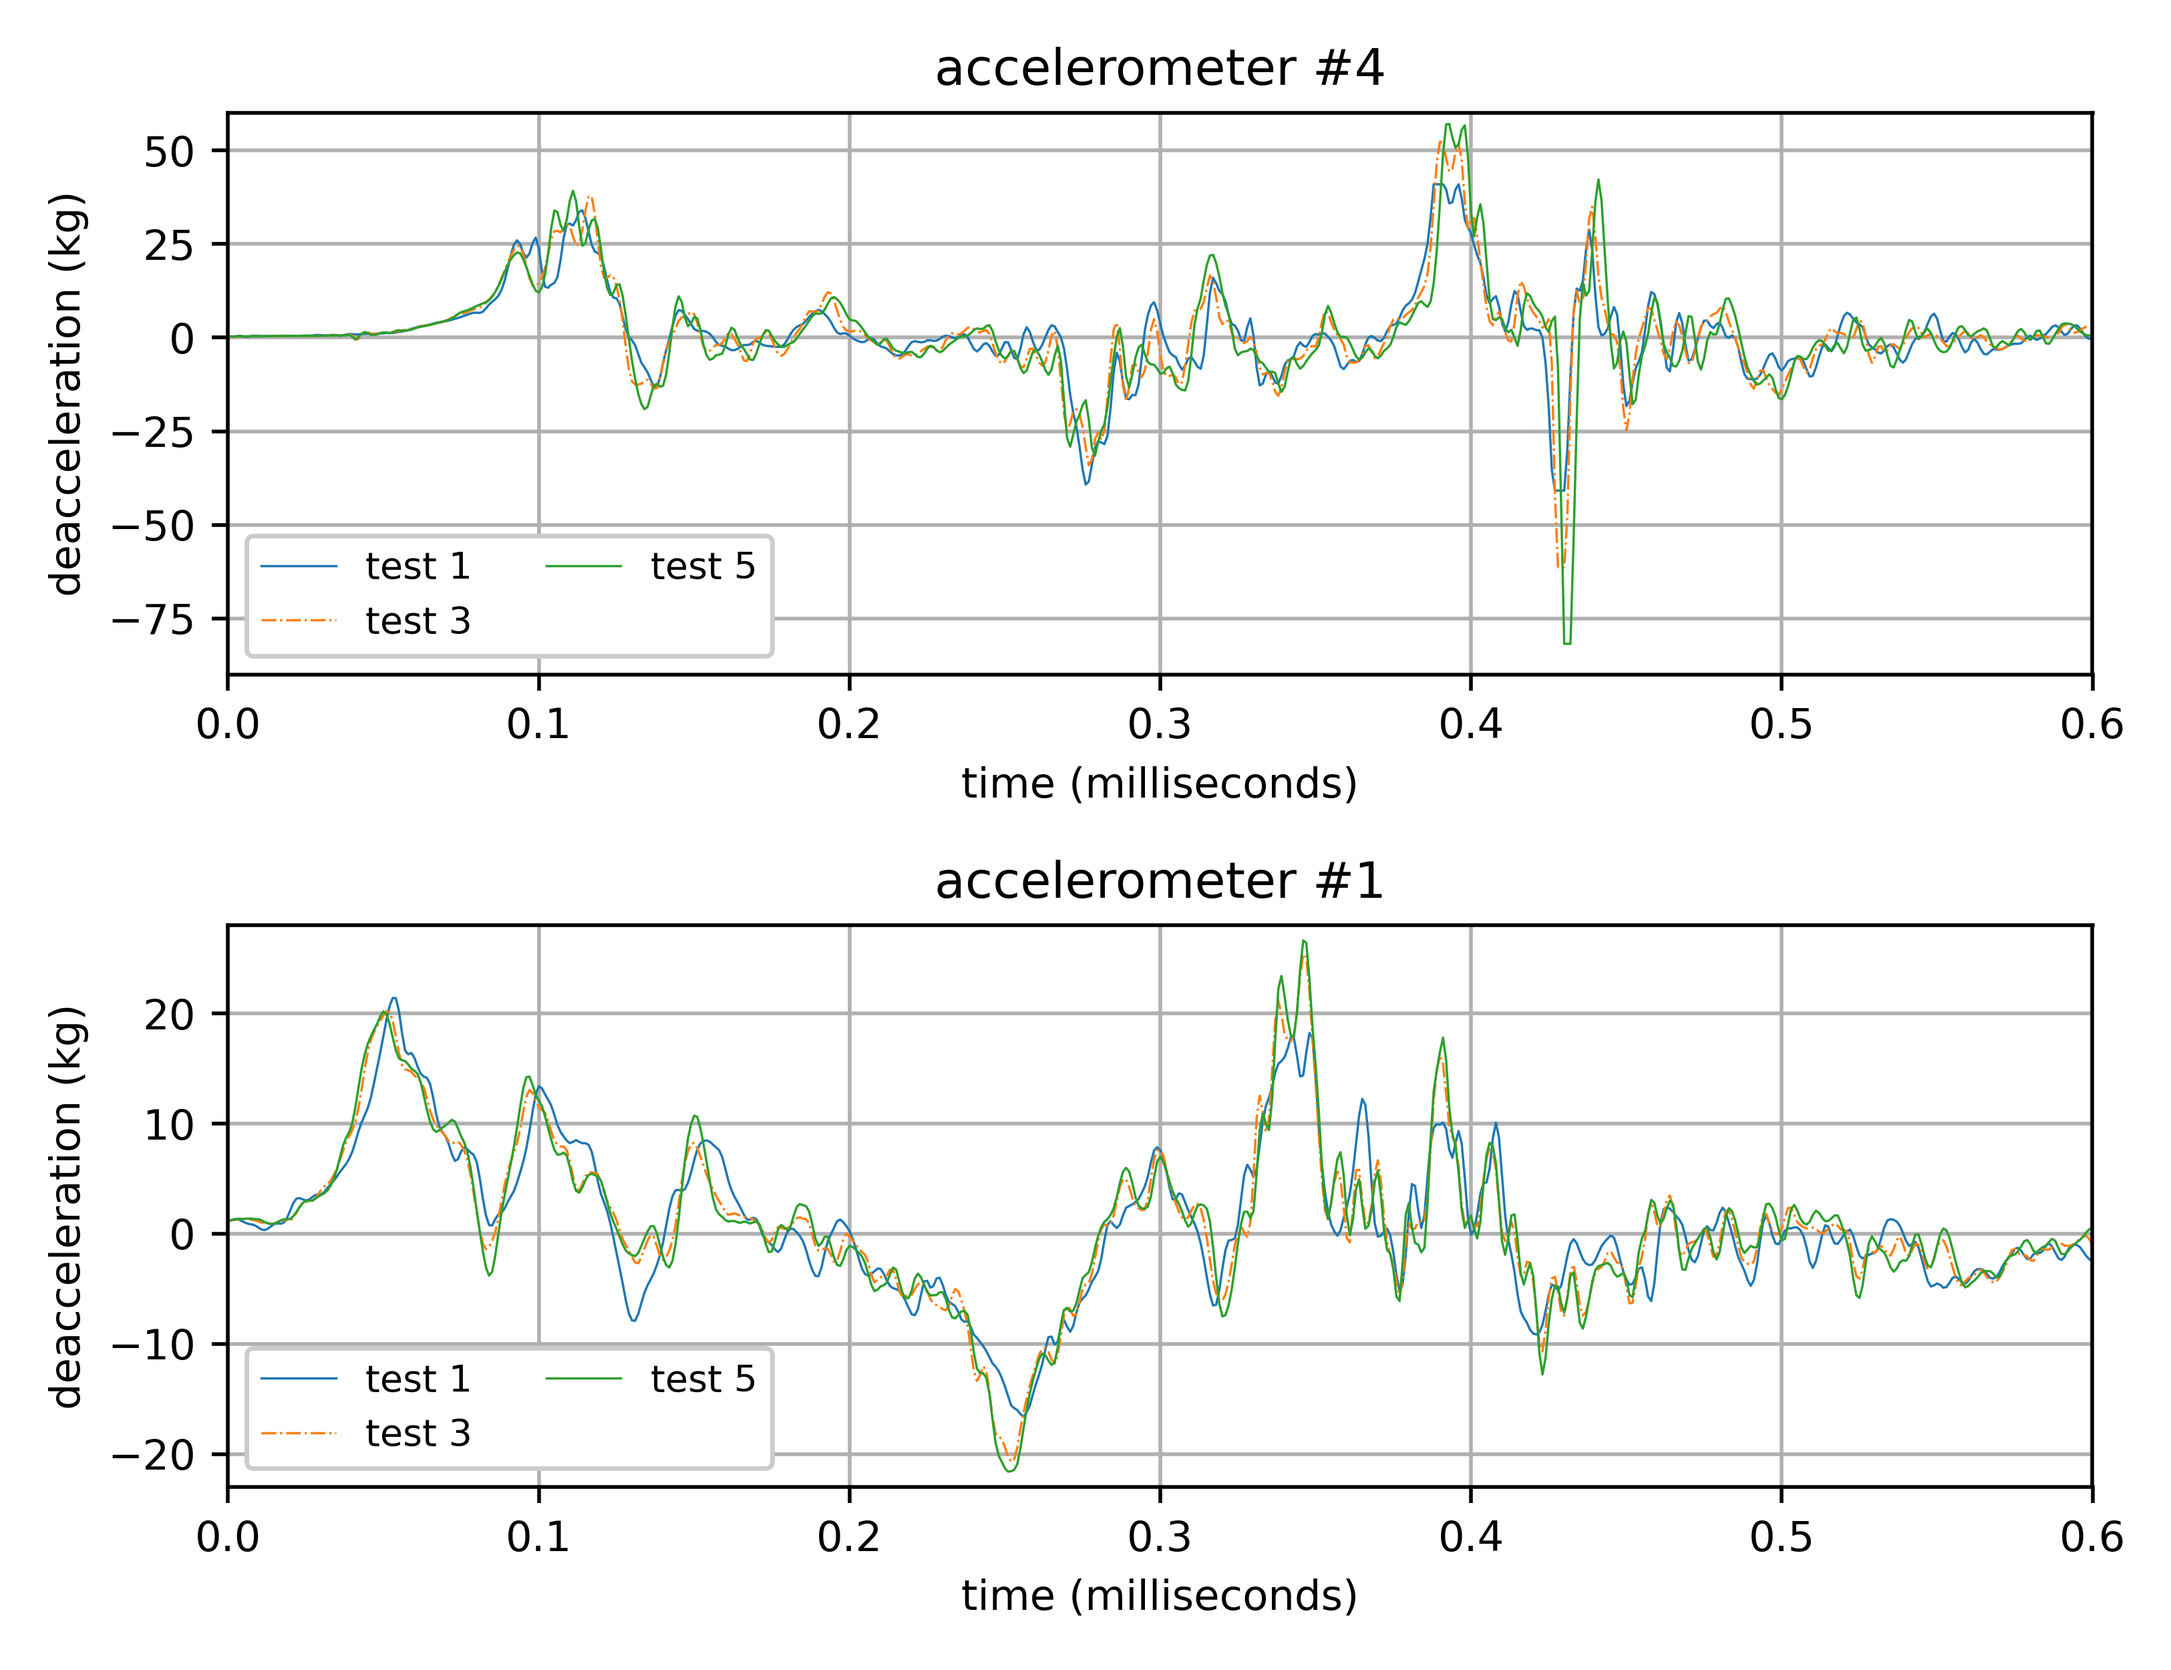
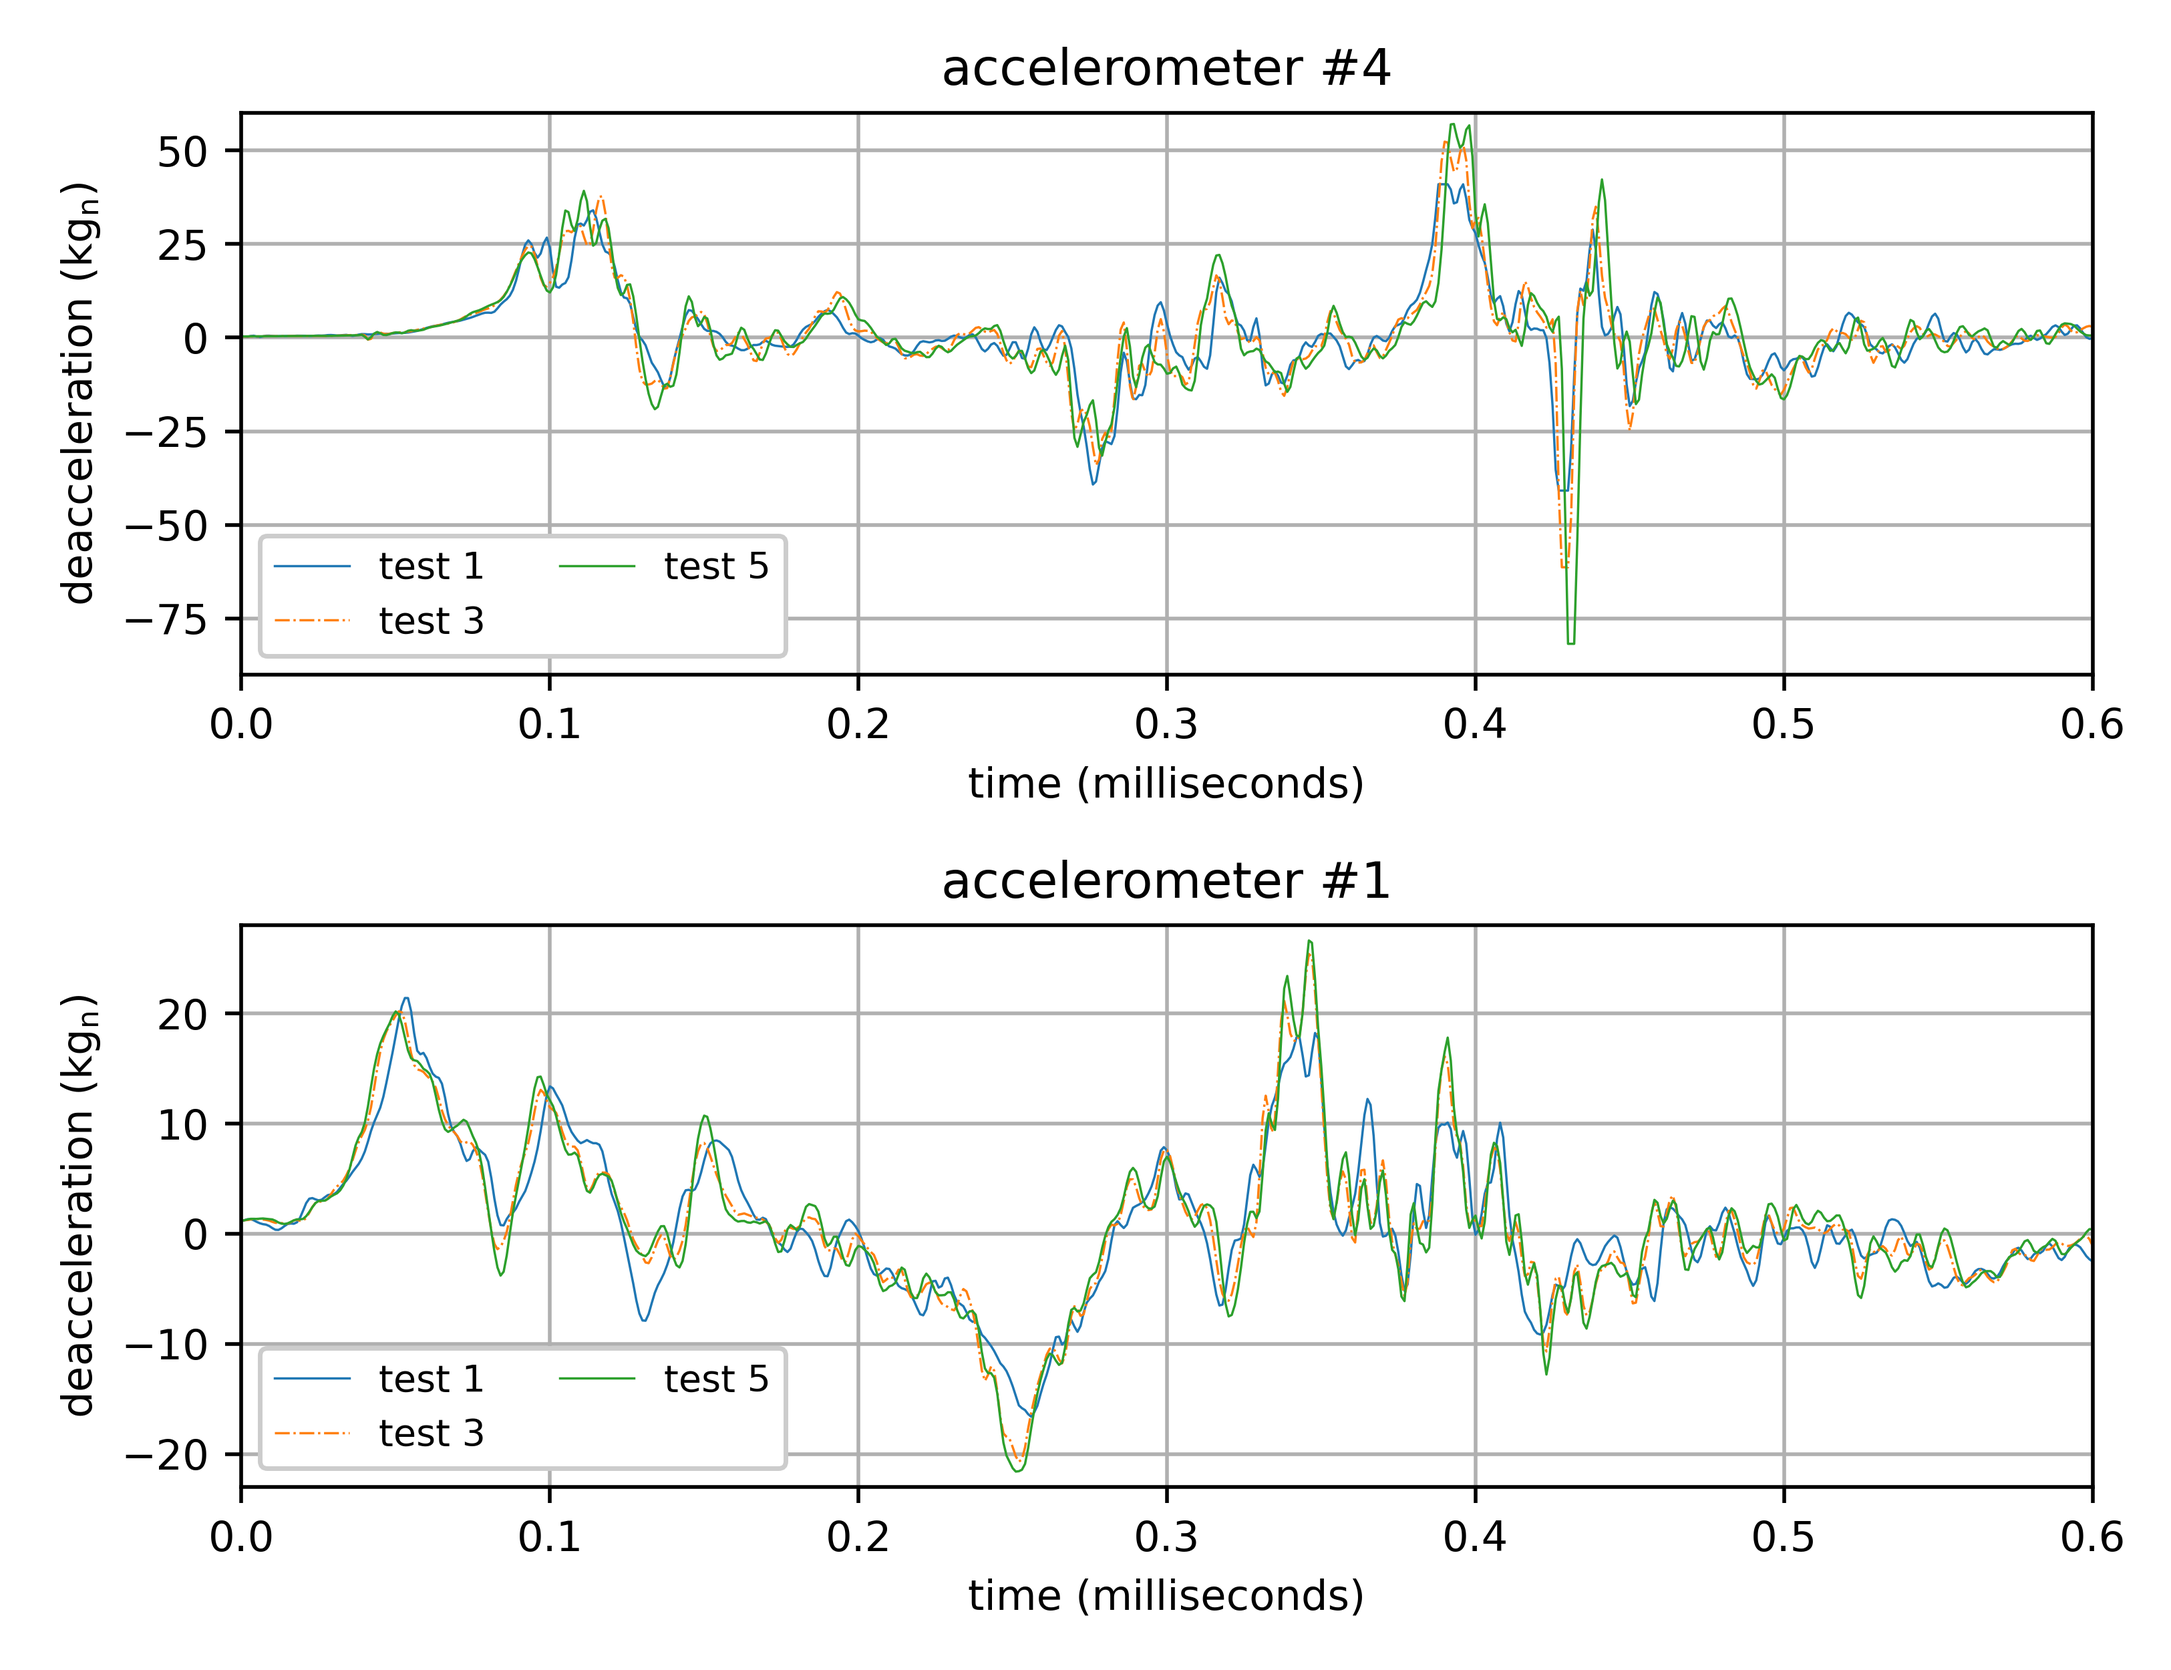
updates to units

diff --git a/images/process.py b/images/process.py
@@ -61,7 +61,7 @@ plt.xlim(0,0.6)
 plt.ylim(-90,60)
 plt.grid('on')
 plt.xlabel('time (milliseconds)')
-plt.ylabel('deacceleration (kg)')
+plt.ylabel('deacceleration $(\mathdefault{kg_n})$')
 plt.title('accelerometer #4')
 plt.legend(framealpha=1,fontsize=8,ncol=2,loc=3)
 plt.tight_layout()
@@ -90,7 +90,7 @@ plt.xlim(0,0.6)
 plt.ylim(-23,28)
 plt.grid('on')
 plt.xlabel('time (milliseconds)')
-plt.ylabel('deacceleration (kg)')
+plt.ylabel('deacceleration $(\mathdefault{kg_n})$')
 plt.title('accelerometer #1')
 plt.legend(framealpha=1,fontsize=8,ncol=2,loc=3)
 plt.tight_layout()

diff --git a/README.md b/README.md
@@ -1,6 +1,6 @@
 # Dataset-1-Quad-PCB-Shock-Loading
 
-This dataset contains the measured acceleration data for an electronics unit under shock test. Figure 1 shows the electronics unit which consists of four circuit boards with high-g Meggitt 72 accelerometers mounted on each. The units for the accelerometers are in KGs and are sampled at 1 MS/s. The Meggitt 72 high-g accelerometers are able to accurately measure accelerations of 120,000 g<sub>n</sub> or 120 kg<sub>n</sub>, where 1 g<sub>n</sub> = 9.81 m/s<sup>2</sup> = 32.2 ft/s<sup>2</sup>. The electronics are potted in the canister with potting material to secure all parts in place. 
+This dataset contains the measured acceleration data for an electronics unit under shock test. Figure 1 shows the electronics unit which consists of four circuit boards with high-g Meggitt 72 accelerometers mounted on each. The units for the accelerometers are in kg<sub>n</sub> and are sampled at 1 MS/s. The Meggitt 72 high-g accelerometers are able to accurately measure accelerations of 120,000 g<sub>n</sub> or 120 kg<sub>n</sub>, where 1 g<sub>n</sub> = 9.81 m/s<sup>2</sup> = 32.2 ft/s<sup>2</sup>. The electronics are potted in the canister with potting material to secure all parts in place. 
 
 
 
@@ -15,10 +15,10 @@ Figure 1: Experimental setup for the quad PCB shock loading data showing the: (a
 The test specimen is subjected to 5 repeated tests where slight variations in the signal are observed, presumably caused by damage in the PCBs. Figure 2 shows the deceleration profile from three different tests for a single accelerometer.
 
 <p align="center">
-<img src="images/candata.png" alt="drawing" width="600"/>
+<img src="images/candata.png" alt="drawing" width="700"/>
 </p>
 <p align="center">
-Figure 2: Deacceleration data for test 1, 3, and 5 for accelerometer #1 (top) and accelerometer #2 (bottom). 
+Figure 2: Deacceleration data for test 1, 3, and 5 for accelerometer #1 (top) and accelerometer #4 (bottom). 
 </p>
 
 Figure 3 is presents the experimental test configuration where the package is mounted on a MTS-66 shock test system designed to generate various impact conditions and a video of the test can be found <a href="https://www.youtube.com/watch?v=Azxv1YyBkQw&ab_channel=ARTS-LabattheUniversityofSouthCarolina">here</a>.
